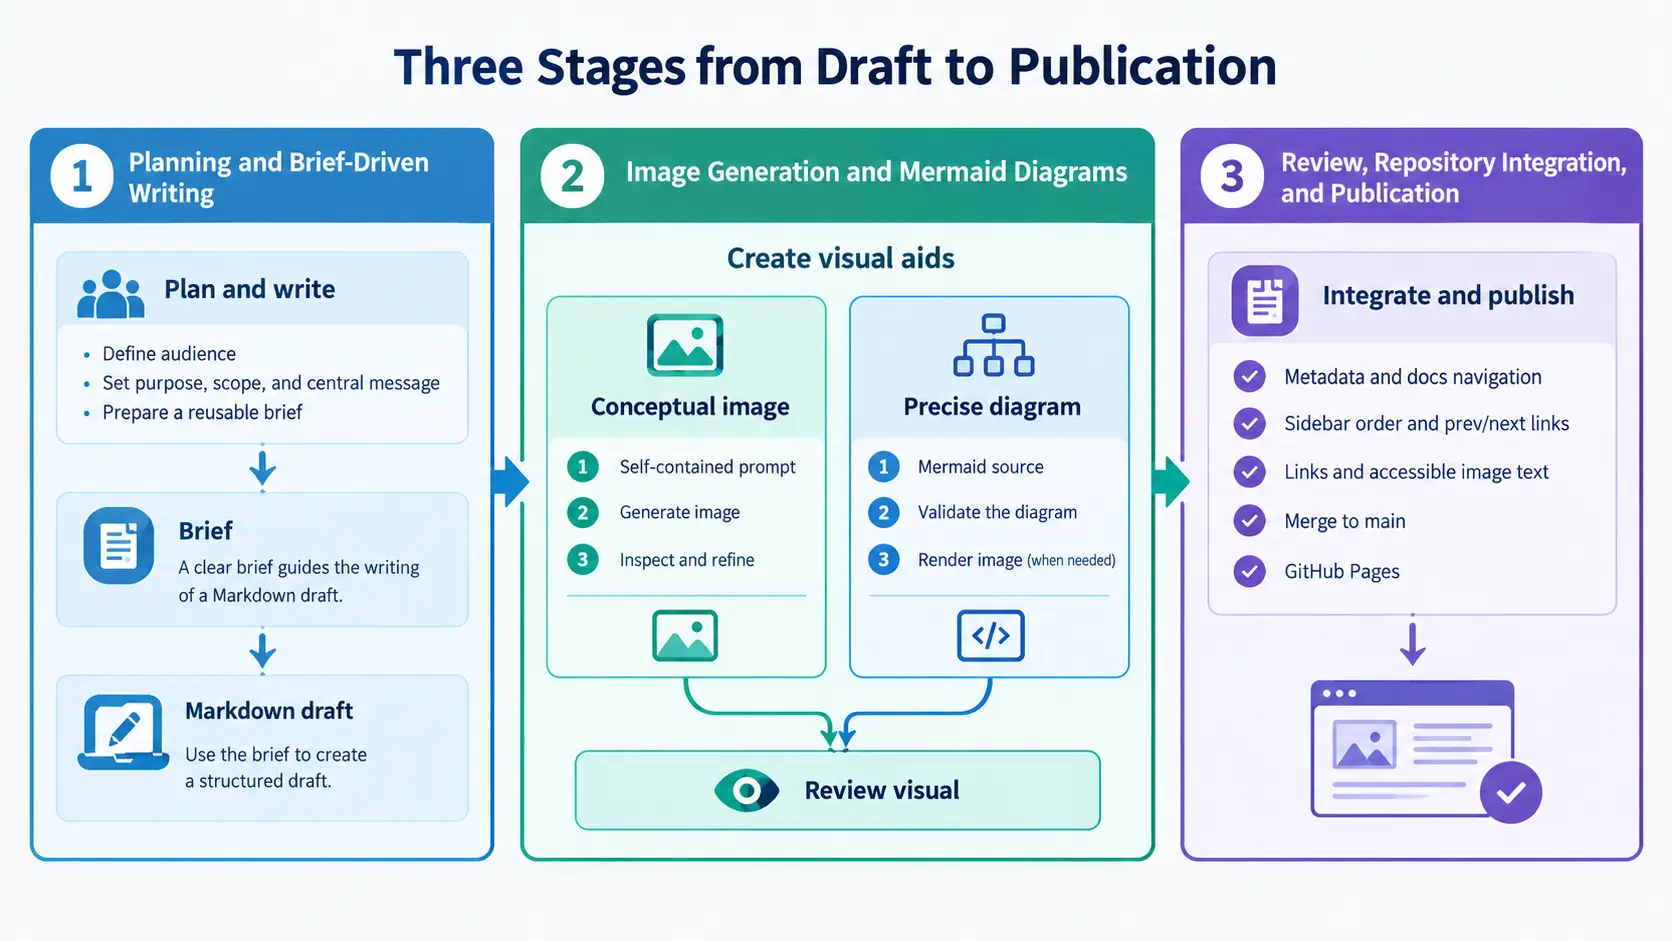
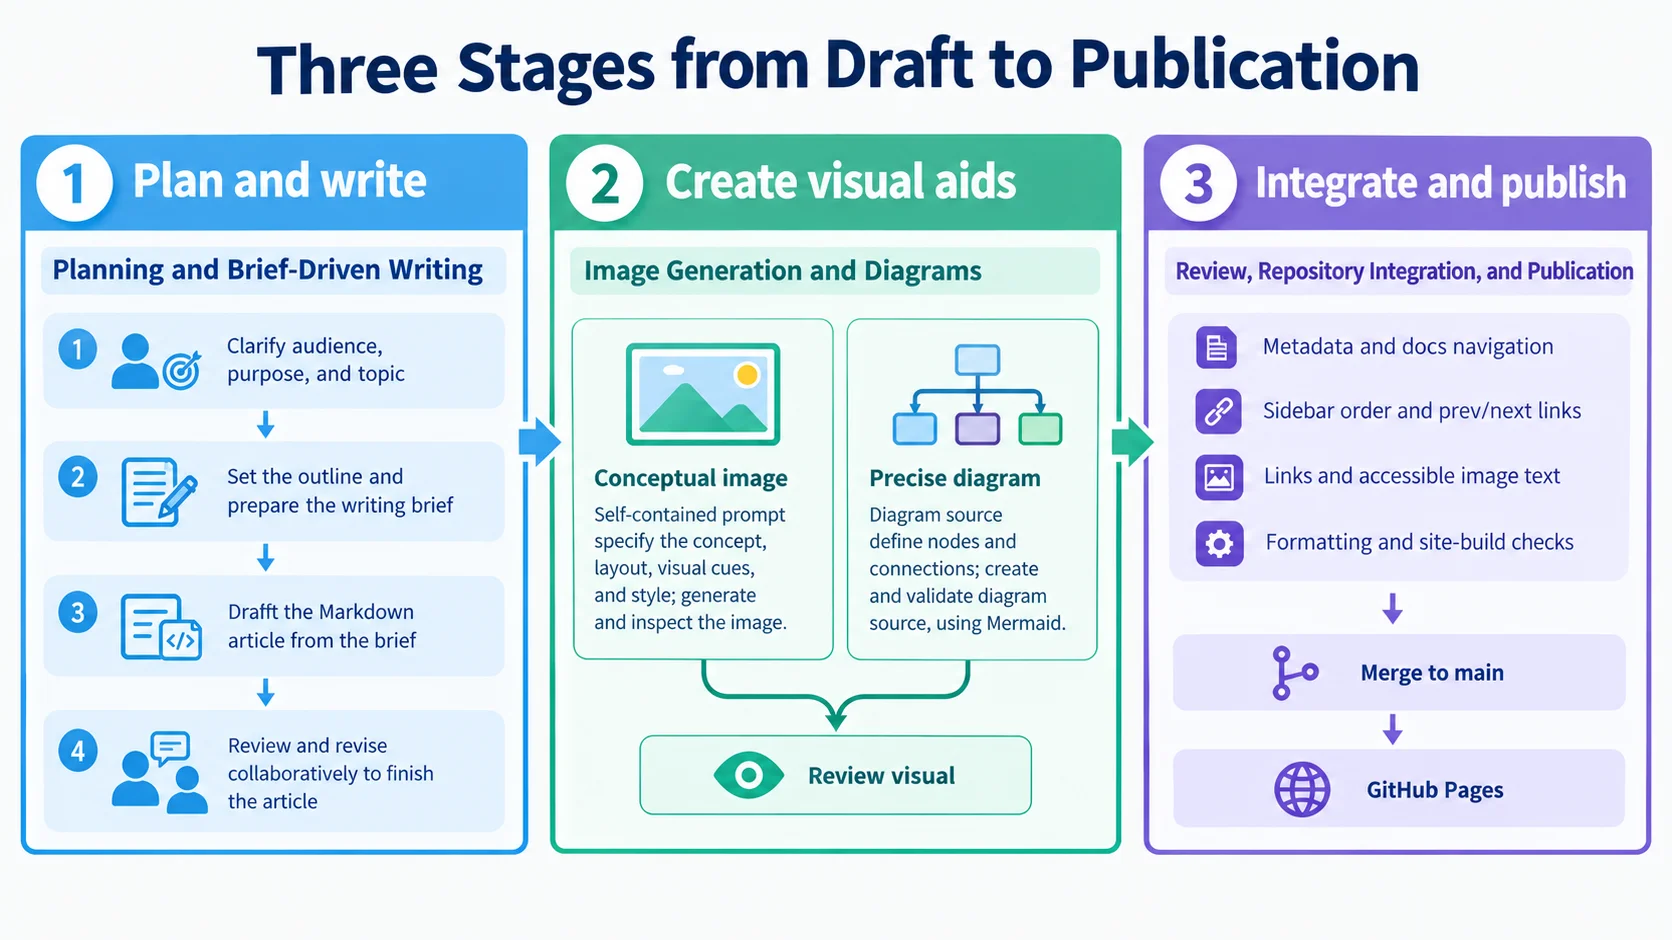
docs(blog): update English article stages visual

diff --git a/prompts/blog/ai-assisted-content-workflow/imagen/02-three-article-stages.md b/prompts/blog/ai-assisted-content-workflow/imagen/02-three-article-stages.md
@@ -8,7 +8,7 @@ description: Three-stage visual guide for the article sections on planning, visu
 
 ## Concept
 
-Create a publication-ready infographic that previews and clarifies the three consecutive sections following the article's main workflow overview. Show how a focused brief guides a draft, how the draft is reviewed and revised collaboratively with AI assistance until the article is ready, how a suitable visual is selected and prepared, and how the complete page is integrated and published.
+Create a publication-ready infographic that previews and clarifies the three consecutive sections following the article's main workflow overview. Show how planning produces a focused writing brief, how that brief guides a Markdown draft, and how a person and AI collaborate through review and revision to finish the article. Then show how suitable visual material is created and reviewed, and how the complete page is checked and integrated before it is merged to `main` and published on GitHub Pages.
 
 The central message is that writing, visual production, and repository integration are connected stages. In the visual-production stage, conceptual images and structurally precise Mermaid diagrams are alternative methods chosen according to what the reader needs to understand. Both methods converge on review and integration before publication.
 
@@ -27,7 +27,7 @@ Use this composition:
                          [Review visual]
 ```
 
-Panel 1 represents the section **“Planning and Brief-Driven Writing”**. Show four numbered steps in a vertical top-to-bottom flow, connected by downward arrows: define the audience, purpose, scope, and central message; prepare a reusable brief; use the brief to create a Markdown draft; collaborate with AI-assisted review and revision to finish the article. Make clear that the draft is an intermediate deliverable, not the finished article. Do not display AI product names in the image.
+Panel 1 represents the section **“Planning and Brief-Driven Writing”**. Show exactly four numbered steps in a vertical top-to-bottom flow, connected by downward arrows. The four steps are: clarify the audience, purpose, and topic; set the outline and prepare a reusable writing brief; create a Markdown draft from that brief; have a person and AI review and revise together until the article is finished. Make the last step visibly distinct from drafting so readers understand that the draft is an intermediate deliverable and collaborative review and revision produce the finished article. Do not display AI product names in the image.
 
 Render the four steps with these labels, in this order:
 
@@ -43,7 +43,22 @@ Panel 2 represents **“Image Generation and Diagrams”**. Show two alternative
 
 Bring both alternatives to one shared step labelled **“Review visual”**, then connect the panel to Panel 3.
 
-Panel 3 represents **“Review, Repository Integration, and Publication”**. Show the complete page being integrated and checked: documentation metadata and sidebar order; previous/next and related-page links; content and visual assets with useful alternative text; formatting and site-build review; merge to `main` and GitHub Pages publication. Place the pre-merge checks in one lightly shaded group without arrows between the items. Use only these arrows in Panel 3: the check group to `Merge to main`, then `Merge to main` to `GitHub Pages`. Make it clear that repository integration includes the page structure, metadata, and navigation as well as any images.
+Panel 3 represents **“Review, Repository Integration, and Publication”** and must clearly show three sequential stages: (1) a grouped review and integration checklist for the complete page, (2) `Merge to main`, and (3) publication on `GitHub Pages`. Put the pre-merge review and integration items together inside one lightly shaded group. Include documentation metadata and sidebar order; previous/next and related-page links; content and visual assets with useful alternative text; and formatting and site-build checks. Treat the checklist items as parallel review concerns, not as an ordered sequence: do not connect checklist items to one another with arrows. Below the group, show `Merge to main`, followed by `GitHub Pages`, with a clear downward arrow from the group to the merge and another from the merge to publication. Do not add any other arrows inside Panel 3. Make clear that repository integration covers the complete page structure, metadata, and navigation as well as any images. The three stages must read visually as review/integration → merge → publication.
+
+Use this Panel 3 arrangement:
+
+```text
+┌ Lightly shaded review and integration group ───────┐
+│ Metadata and docs navigation                      │
+│ Sidebar order and prev/next links                  │
+│ Links and accessible image text                    │
+│ Formatting and site-build checks                   │
+└──────────────────────────┬────────────────────────┘
+                           ↓
+                    [Merge to main]
+                           ↓
+                     [GitHub Pages]
+```
 
 ## Visual cues
 
@@ -72,7 +87,7 @@ Render these labels exactly, with capitalization and punctuation preserved:
 - `Merge to main`
 - `GitHub Pages`
 
-Show exactly two alternatives within Panel 2: a conceptual-image path and a precise-diagram path. Make both paths converge on `Review visual`, then continue to Panel 3. The main sequence must remain:
+Show exactly two alternatives within Panel 2: a conceptual-image path and a precise-diagram path. Make both paths converge on `Review visual`, then continue to Panel 3. Within Panel 3, group all pre-merge review and integration checks together, then show the distinct sequence `Merge to main` → `GitHub Pages`. The main sequence must remain:
 
 ```text
 Plan and write → Create visual aids → Integrate and publish

diff --git a/content/blog/ai-assisted-content-workflow/index.md b/content/blog/ai-assisted-content-workflow/index.md
@@ -29,7 +29,7 @@ An article moves through a sequence of connected decisions and deliverables. The
 
 The brief is the handoff between editorial planning and implementation. It captures decisions in a form I can reuse and revise, instead of relying on the context of an earlier conversation. Visual planning is part of developing the article: I choose a form that fits the explanation, create or prepare the asset, and integrate it with the page. Review then considers the prose and visuals together before the changes move through the repository's publication process.
 
-![Three stages from planning and brief-driven writing, through image generation or Mermaid diagrams, to repository integration and publication.](three-stages-from-draft-to-publication.webp "Three Stages from Draft to Publication")
+![Three panels show planning and writing through a brief, Markdown draft, and collaborative review; visual creation through a conceptual image or precise Mermaid diagram, both reviewed; and complete-page checks grouped before merging to main and publishing on GitHub Pages.](three-stages-from-draft-to-publication.webp "Three Stages from Draft to Publication")
 
 ## Planning and Brief-Driven Writing
 
